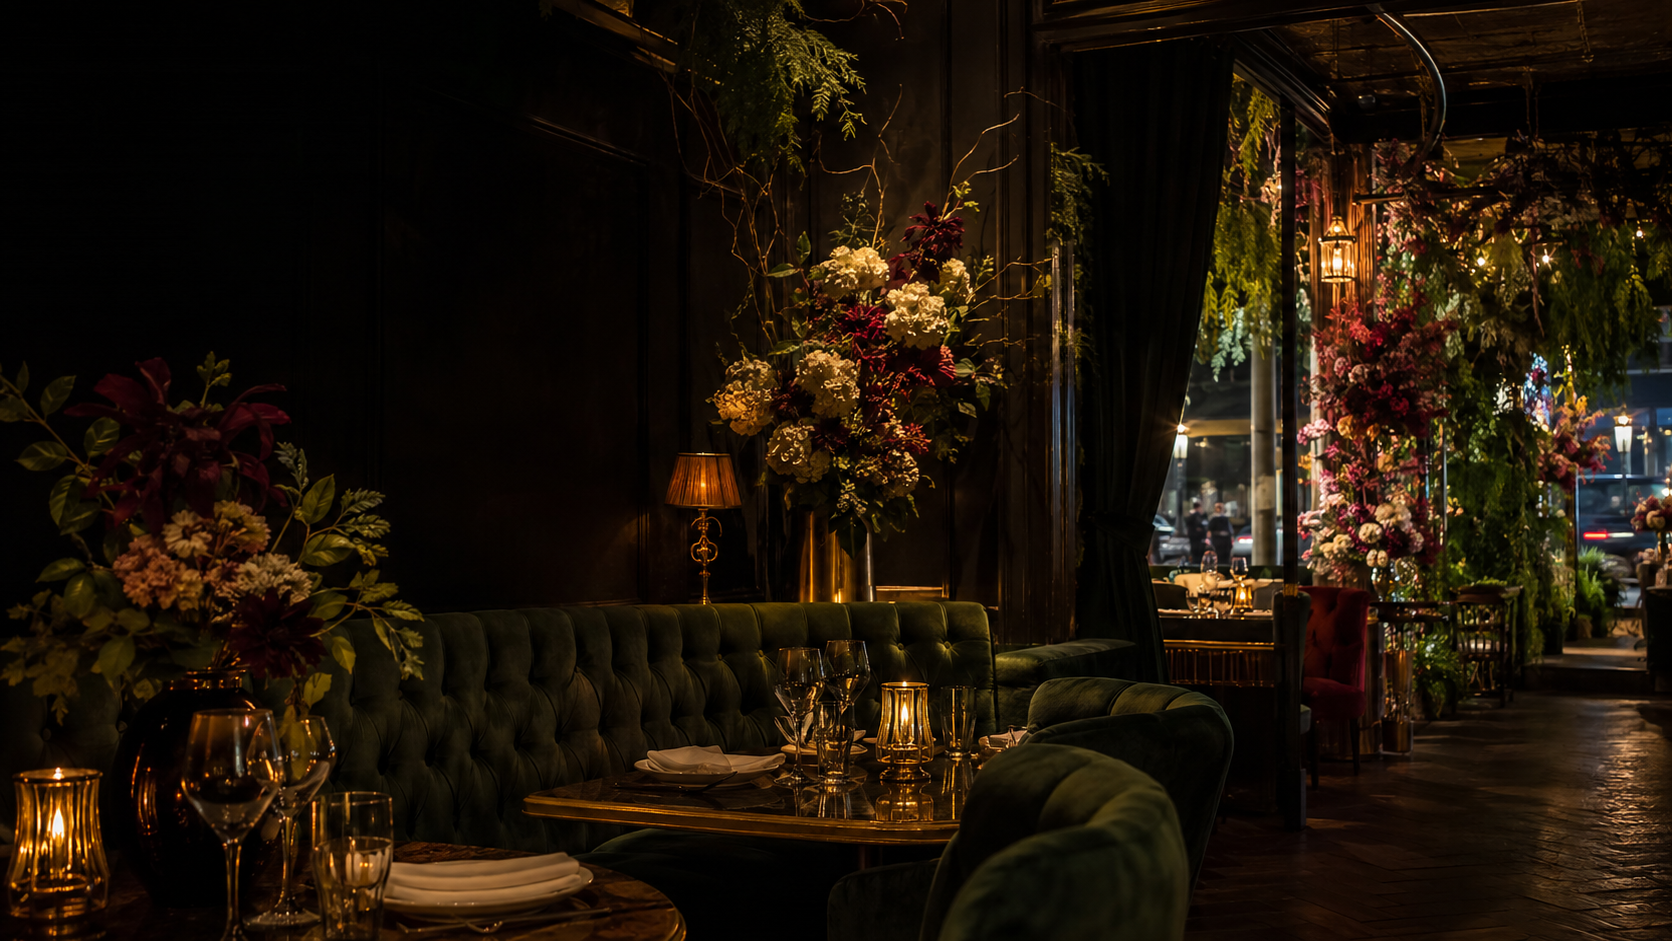
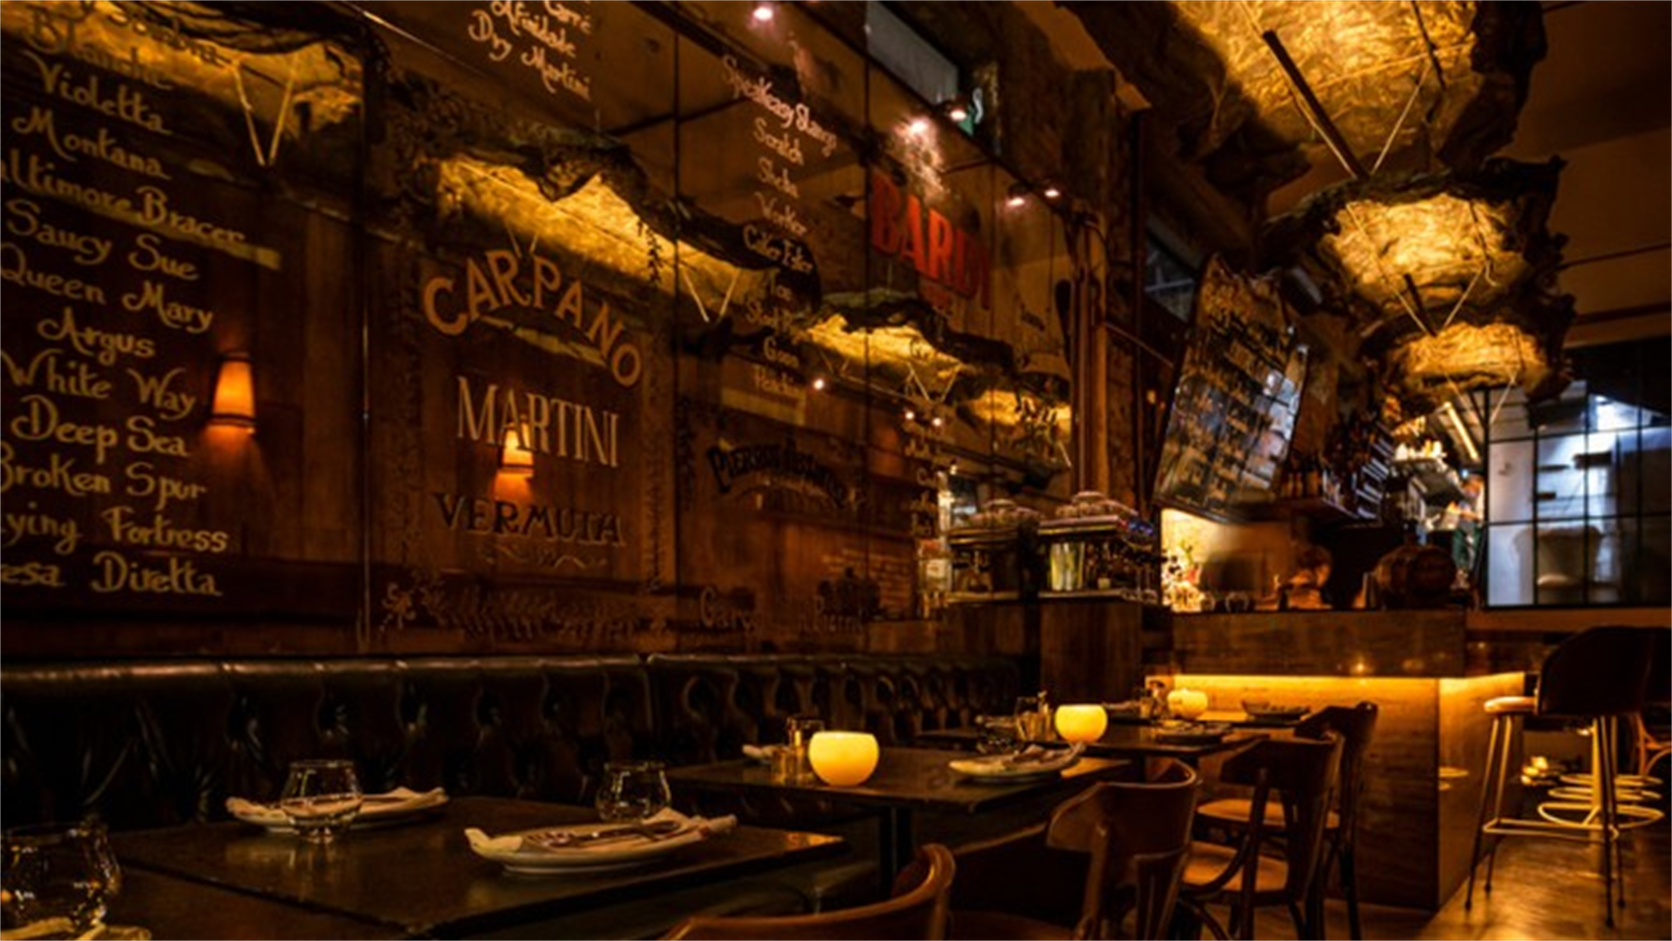
Substitui foto do hero e ajusta texto do manifesto
- Troca assets/flora-hero.png por foto tratada do salão (crop/resize
  de salao-noite-bar.jpg na proporção do hero original)
- Corrige texto do manifesto: "veludo verde" -> "couro capitonê"

diff --git a/index.html b/index.html
@@ -42,7 +42,7 @@
           <p class="overline">A porta é só o começo</p>
           <h2>Uma casa escondida<br />para ser <em>encontrada.</em></h2>
           <div class="manifesto-text">
-            <p>O Flora é uma pausa no ritmo dos Jardins. Atravessar a floricultura é entrar em outra hora: luz baixa, veludo verde, flores que mudam com a estação e uma mesa sempre à espera.</p>
+            <p>O Flora é uma pausa no ritmo dos Jardins. Atravessar a floricultura é entrar em outra hora: luz baixa, couro capitonê, flores que mudam com a estação e uma mesa sempre à espera.</p>
             <p>A cozinha contemporânea e o balcão trabalham lado a lado — para que cada visita tenha o seu próprio tempo.</p>
           </div>
         </div>
